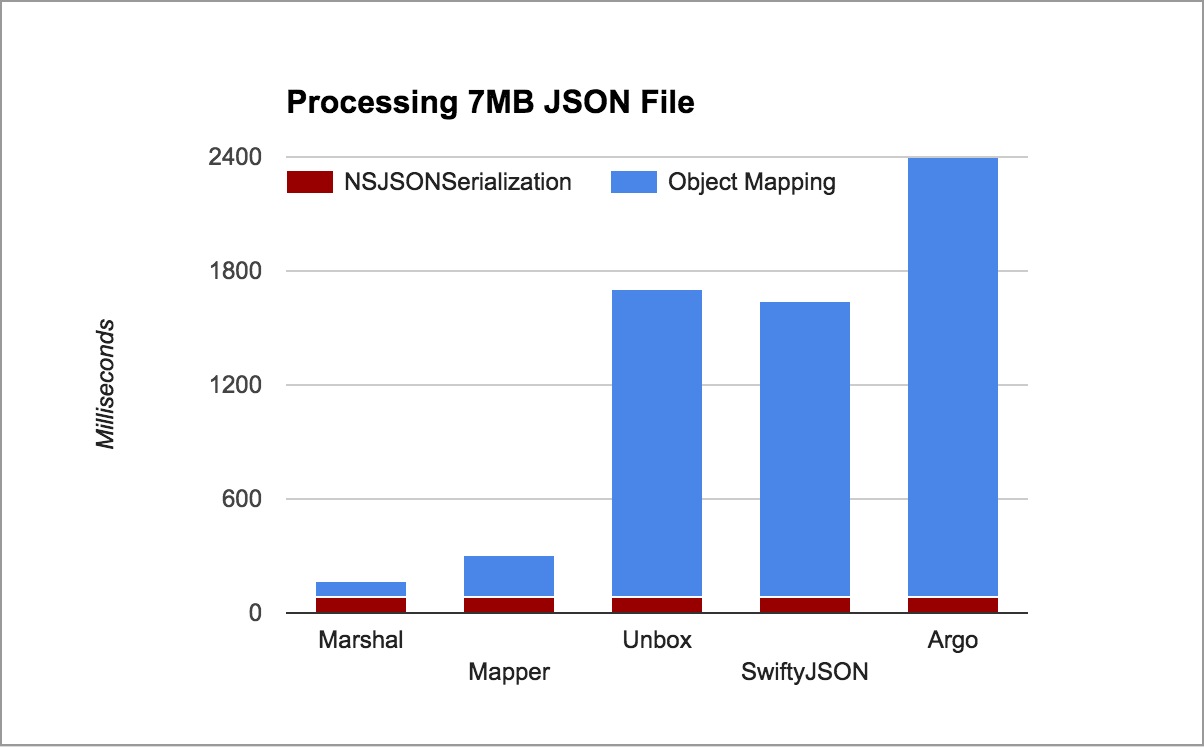
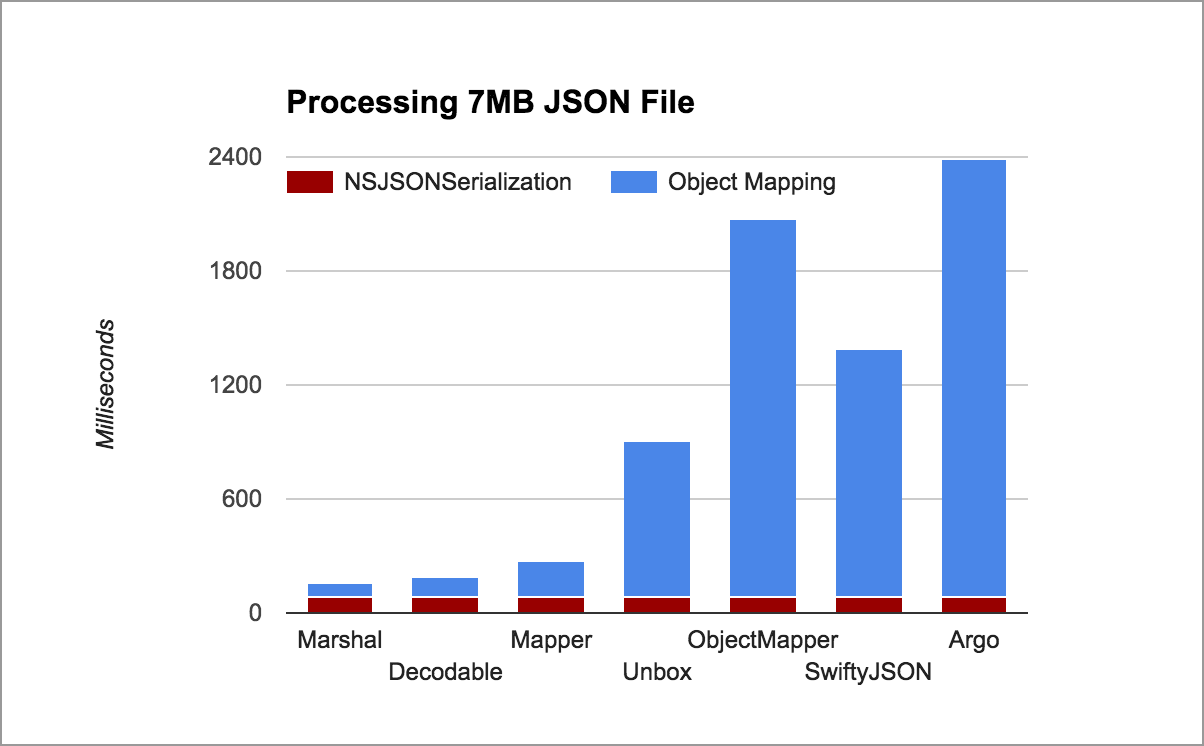
updated Readme

diff --git a/README.md b/README.md
@@ -1,12 +1,13 @@
 # Swift + JSON
 Since the first days of Swift, developers have been exploring strategies for dealing with JSON. While some call this "JSON Parsing", with few exceptions most people rely on `NSJSONSerialization` for the actual parsing. Most of the effort has gone into finding the best way to map JSON objects (dictionaries and arrays) into model objects (structs, classes, enums).
 ## A Convergence of Ideas
-Many projects have emerged to take on this challenge, employing various approaches and philosophies. It's interesting that three of these projects have taken a very similar approach, ostensibly independent of each other. These three are:
+Many projects have emerged to take on this challenge, employing various approaches and philosophies. It's interesting that several of these projects have taken a very similar approach, ostensibly independent of each other. Here are some examples:
 
 * [Marshal](https://github.com/utahiosmac/Marshal)
 * [Mapper](https://github.com/lyft/mapper)
 * [Unbox](https://github.com/JohnSundell/Unbox)
 * [Decodable](https://github.com/Anviking/Decodable)
+* [ObjectMapper](https://github.com/Hearst-DD/ObjectMapper)
 
 The power of the approach taken by these projects lies in the ability to easily map not only primitive JSON types, but also custom types and objects in a type safe manner.
 
@@ -188,10 +189,10 @@ You can immediately see the similarities between the three projects. I won't get
 [blog](http://jasonlarsen.me/2015/06/23/no-magic-json-pt2.html) 
 [posts](http://jasonlarsen.me/2015/10/16/no-magic-json-pt3.html).
 
-All three of the JSON mappers can handle `NSURL`s. They can also handle `NSDate`s with the help of formatters. Marshal and Mapper automatically handle enums with raw types. Unbox requires enums to conform to a special protocol. The power of all three projects lies in the ability to make the JSON mapper aware of new types, whether they be simple fields that can be transformed from a string such as dates, or more complex types and even nested types like our Program and Recording above. 
+All three of the JSON mappers can handle `NSURL`s. They can also handle `NSDate`s with the help of formatters. Marshal and Mapper automatically handle enums with raw types. Unbox requires enums to conform to a special protocol. The power of these projects lies in the ability to make the JSON mapper aware of new types, whether they be simple fields that can be transformed from a string such as dates, or more complex types and even nested types like our Program and Recording above. 
 ##Type Safety
 
-All three of these projects provide a measure of type safety at compile time. The compiler is aware of what types are supported, so you can't attempt to extract a type that the JSON extractor can't handle. For example, the compiler won't let you try this:
+Many of these projects provide a measure of type safety at compile time. The compiler is aware of what types are supported, so you can't attempt to extract a type that the JSON extractor can't handle. For example, the compiler won't let you try this:
 
 `let name: UIView = try json.value(for: "firstName")`
 
@@ -206,14 +207,12 @@ SwiftyJSON was one of the earliest projects to help Swift developers deal with J
 
 Argo requires two additional dependencies (Curry and Runes) which feels kind of heavy. The liberal use of custom operators is off-putting to many developers. When trying to map to the two model objects above with Argo, the Swift compiler emitted the dreaded error `Expression was too complex to be solved in reasonable time`. As a result Argo is more rigid and the model objects had to be changed to get things to work. Argo was the worst-performing framework tested. Because the model objects had to be changed to get Argo to work, the master branch does not have support for Argo. A separate `argo` branch is available if someone would like to see how it works.
 ##Performance
-Now that we have all three JSON mappers processing the same JSON file, we can compare the performance of each. While measuring performance I noticed that a lot of time was spent in date parsing. Since this was common across all implementations, I removed the dates from the model objects to get a better comparison of the performance of the JSON mappers themselves.
+Now that we have all of the JSON mappers processing the same JSON file, we can compare the performance of each. While measuring performance I noticed that a lot of time was spent in date parsing. Since this was common across all implementations, I removed the dates from the model objects to get a better comparison of the performance of the JSON mappers themselves.
 
 This graph shows time spent in each of the mappers as well as time spent in `NSJSONSerialization` for a reference.
 
 
 ![Performance Graph](https://raw.githubusercontent.com/bwhiteley/JSONShootout/master/images/performance.png)
-
-As you can see, Marshal is the most efficient followed by Mapper with SwiftyJSON, Unbox, and Argo trailing far behind.
 
 ##Conclusion
 If you are looking for a Swift JSON mapper, you might want to clone JSONShootout and compare these frameworks side-by-side yourself. 
